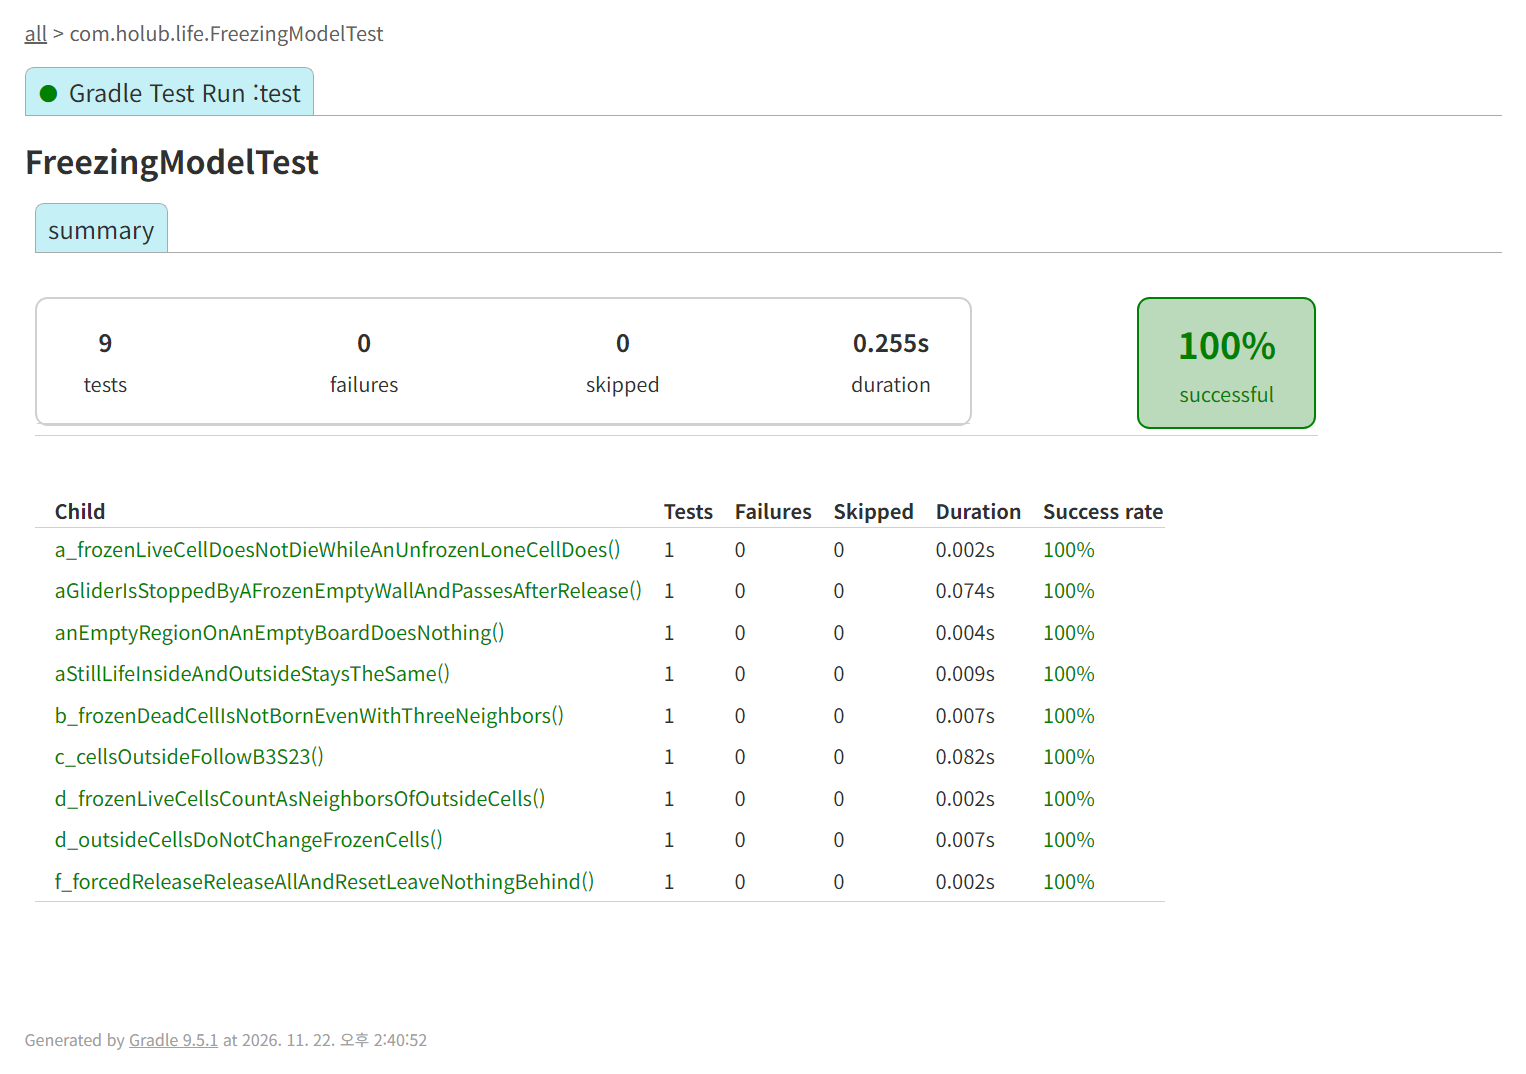
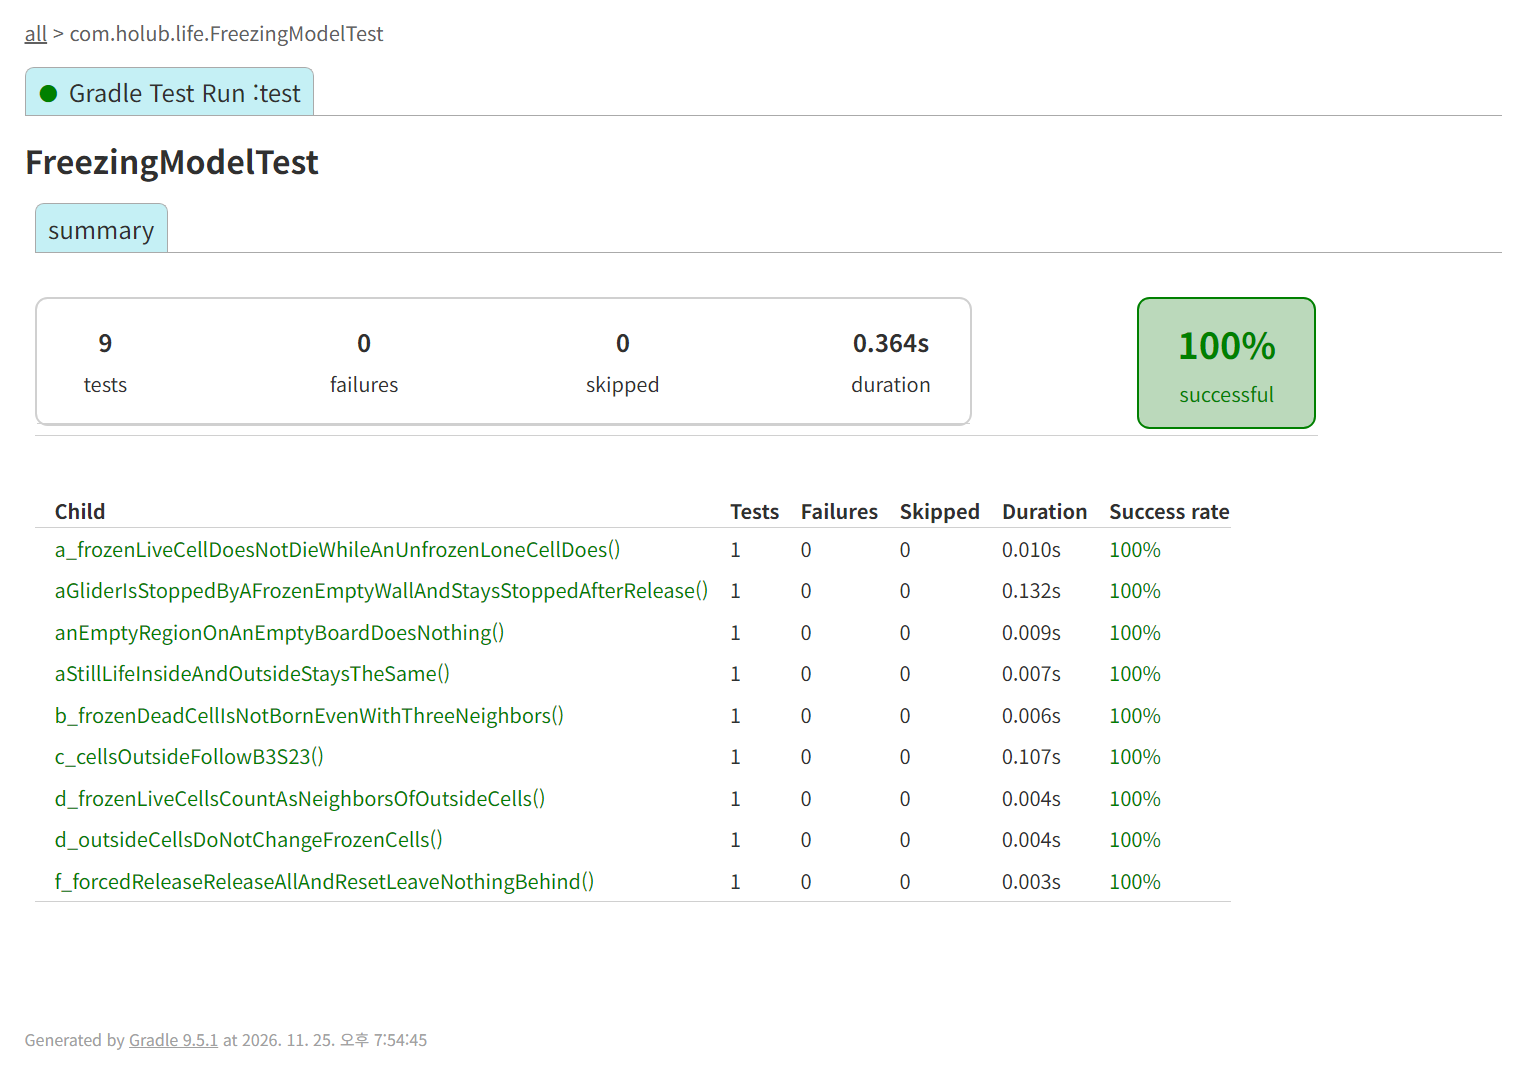
docs: 글라이더 테스트 이름 변경(#26)을 evidence와 freezing.md에 반영
- evidence README의 1번 묶음 표에 새 이름과 해제 뒤 확인 내용을 적음
- 1번 묶음 결과 화면을 #26 브랜치에서 다시 찍음(9개 통과)
- freezing.md 5.3절의 테스트 이름을 바꿈

diff --git a/docs/freezing/evidence/README.md b/docs/freezing/evidence/README.md
@@ -21,7 +21,7 @@ Gradle HTML 보고서(`build/reports/tests/test/`)를 브라우저로 열어 캡
 
 `FreezingModelTest`는 Universe와 Swing 없이 보드(`Neighborhood` + `Resident`)와 `FreezingManager`만 만들어 시험한다. 세대 진행은 테스트 안의 `tick()`이 게임과 같은 순서(`figureNextState` → `beforeTransition` → `transition` → 세대 +1 → `afterGeneration`)로 부른다.
 
-묶음별 화면은 2026-11-22에 같은 코드에서 `gradlew test --rerun --tests "com.holub.life.FreezingModelTest.<메서드>"`로 묶음에 속한 테스트만 실행한 결과다. 7개 묶음의 합은 50개로 전체 실행의 `FreezingModelTest`와 같다.
+묶음별 화면은 2026-11-22에 같은 코드에서 `gradlew test --rerun --tests "com.holub.life.FreezingModelTest.<메서드>"`로 묶음에 속한 테스트만 실행한 결과다. 7개 묶음의 합은 50개로 전체 실행의 `FreezingModelTest`와 같다. 1번 묶음(기본 규칙) 화면만 글라이더 테스트의 이름을 고친 뒤(#26) 2026-11-25에 같은 방법으로 다시 찍었다.
 
 | 화면 | 묶음 | 확인하는 것 | 결과 |
 | --- | --- | --- | --- |
@@ -40,7 +40,7 @@ Gradle HTML 보고서(`build/reports/tests/test/`)를 브라우저로 열어 캡
 | Child | 실행 수 | 확인하는 것 |
 | --- | --- | --- |
 | `a_frozenLiveCellDoesNotDieWhileAnUnfrozenLoneCellDoes()` | 1 | 혼자 있는 산 셀 두 개 중 하나만 고정하면, 고정된 셀은 3세대 동안 살아 있고 고정하지 않은 셀은 원래 규칙대로 죽는다 |
-| `aGliderIsStoppedByAFrozenEmptyWallAndPassesAfterRelease()` | 1 | 글라이더가 오는 길에 비어 있는 세로줄을 60세대 고정하면, 그 줄에는 셀이 태어나지 않고 줄 너머로 넘어가는 셀도 없다 |
+| `aGliderIsStoppedByAFrozenEmptyWallAndStaysStoppedAfterRelease()` | 1 | 글라이더가 오는 길에 비어 있는 세로줄을 60세대 고정하면, 그 줄에는 셀이 태어나지 않고 줄 너머로 넘어가는 셀도 없다. 글라이더는 벽 앞에서 부서져 2×2 블록이 되고, 벽이 풀린 뒤 40세대(61~100세대) 동안에도 블록이 그대로라 줄을 넘어가지 않는다 |
 | `anEmptyRegionOnAnEmptyBoardDoesNothing()` | 1 | 빈 보드에 빈 영역을 고정해도 셀이 생기지 않고, 지속 세대가 지나면 영역 목록이 빈다 |
 | `aStillLifeInsideAndOutsideStaysTheSame()` | 1 | 블록(정물)을 하나는 고정하고 하나는 그대로 두면, 고정 중과 풀린 뒤 모두 판이 처음과 같다 |
 | `b_frozenDeadCellIsNotBornEvenWithThreeNeighbors()` | 1 | 원래 규칙이라면 태어날 죽은 칸(이웃 3개)을 고정하면 4세대 동안 태어나지 않는다 |
